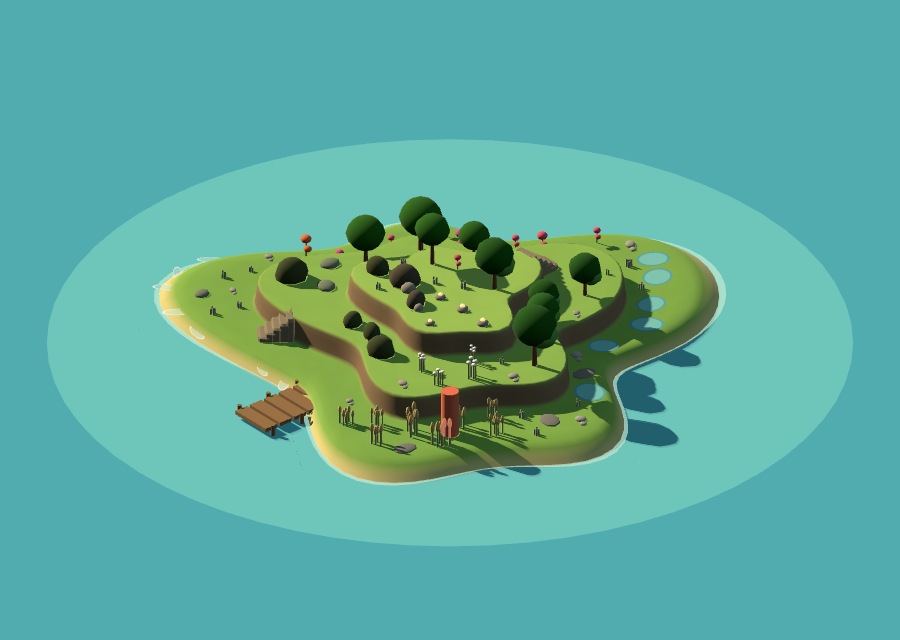
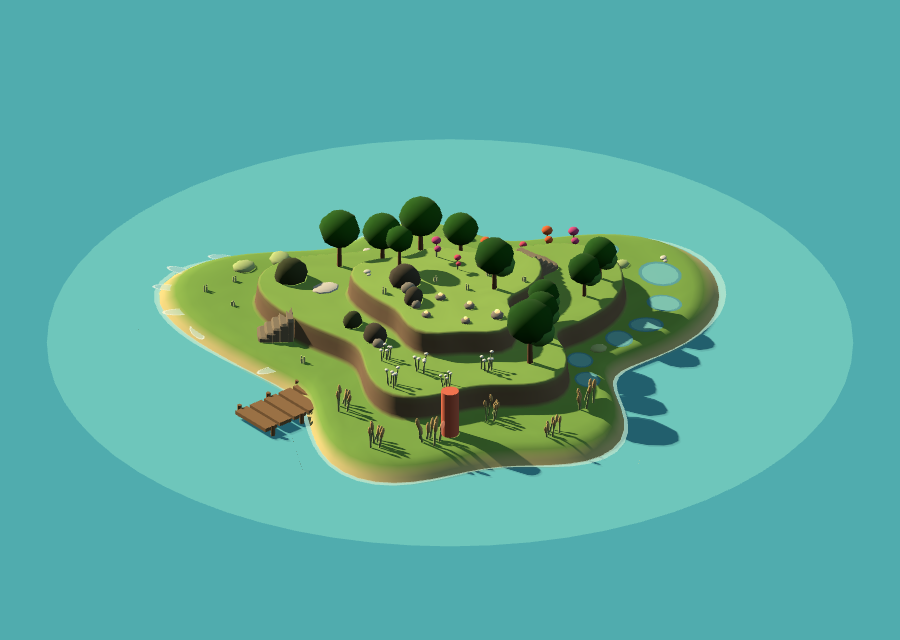
③-7 손보기: 중립 색·밀도, 갈대 뭉침
렌더 보고 세 가지.

중립 식생이 어두운 얼룩으로 보였다

채도만 낮추고 명도를 안 봤다. 잔디보다 어두우니 풀밭의 결이 아니라
때처럼 읽혔다. 명도를 잔디(grassHigh, 약 177) 위로 올리고 노란기를
줬다. 자갈·노두도 검은 돌에서 회백색으로.

구분 검사를 채도에서 크기·형태로 바꿨다. 중립을 밝게 만들면서 채도가
같이 올랐고, 애초에 어두워서 문제였지 채도 탓이 아니었다.
이제 중립은 높이 0.22 이하 + 발자국 0.30 이하, 감정 식생은 그 둘을
동시에 만족하지 않는다(등불만 발광 예외). 물웅덩이·파도는 발자국이
커서 예외 없이 통과한다. "잔디보다 밝은가"도 검사에 넣었다.

밀도 25% 감소

면적당 2.4 → 1.8. 빈 데가 거의 없어 숨 쉴 자리가 없었다.

갈대가 병정처럼 섰다

가늘고 세로로 긴 종류는 최소 간격을 따로 준다 (갈대 1.05, 흰 들꽃 0.85).
무리 안에서도 키·퍼짐·기울기를 개체마다 달리했다. 줄기를 밑동 기준으로
눕힐 수 있게 add()에 기울기를 받고, 이삭은 눕힌 끝에 얹는다.

측정

- 시드 6개 자동 검사 전부 통과
- 어휘 16가지 배치율 80~91% (간격을 넓혔으니 내려갔다). 영역별 개수는
  11~16으로 오히려 더 고르다
- 조명은 통과하되 빈 섬 대비가 27.1 → 26.1%p로 더 내려갔다.
  중립을 밝게 하면 그늘이 줄어드니 당연한 방향이다. 목표 25에 1.1%p 남았다.
  ③-8 랜드마크가 서면 세로 요소가 생기니 그때 다시 본다

Claude-Session: https://claude.ai/code/session_01SZRMdQ646wNhwreMZVVGCv

diff --git a/index.html b/index.html
@@ -5351,6 +5351,8 @@ var VEG_FOOT = {
   tuft: 0.14, pebble: 0.12, shrub: 0.24, outcrop: 0.30
 };
 var VEG_NEUTRAL = { tuft: 1, pebble: 1, shrub: 1, outcrop: 1 };
+// 가늘고 세로로 긴 것은 서로 더 떨어뜨린다. 가까이 모이면 병정처럼 줄지어 선다.
+var VEG_GAP = { reed: 1.05, wflower: 0.85 };
 var VEGCOL = {
   flowerA: 0xef8fa8, flowerB: 0xf3c05a, flowerC: 0xd98cd0,
   fruitLeaf: 0x6ea444, fruit: 0xe0603f,
@@ -5363,9 +5365,10 @@ var VEGCOL = {
   rock: 0x8a8578, rockMoss: 0x6f8455,
   wave: 0xbfe2e6, waveRim: 0xe4f2f4, pondRim: 0x4f9aa8,
   // 중립 식생. 전부 채도 0.22 이하라 자란 것과 섞이지 않는다.
-  // 노두는 분노의 바위와 회색이 겹치지 않게 더 어둡고 차갑게 간다.
-  // 크기로도 갈리지만(바위 0.31~0.5 대 노두 0.07) 색까지 벌려두는 편이 안전하다.
-  tuft: 0x8a9678, shrub: 0x707d66, pebble: 0x9c9890, outcrop: 0x74736e
+  // 중립 식생. 채도만 낮추고 명도를 안 봐서 잔디보다 어두웠고, 그래서
+  // 풀밭의 결이 아니라 때 얼룩처럼 보였다. 잔디(grassHigh, 명도 약 177)보다
+  // 밝은 쪽으로 올리고 노란기를 준다. 자갈·노두도 검은 돌이 아니라 회백색이다.
+  tuft: 0xc3d18a, shrub: 0xaec37e, pebble: 0xd8d5c8, outcrop: 0xcfcbbd
 };
 // 섬 표면 높이. 식생을 지면에 붙이려면 필요하다.
 function surfaceY(isle, x, z) {
@@ -5437,33 +5440,35 @@ function buildVegetation(isle, state, opts) {
   var list = state || [], TAU = 6.283185307;
   var items = [];
 
-  function fits(x, z, foot) {
+  function fits(x, z, foot, kind) {
     if (keepOutHit(isle, x, z) > 0) return false;
+    var own = VEG_GAP[kind] || 0;
     for (var i = 0; i < items.length; i++) {
-      var need = Math.max(VEG_MIN_GAP, foot + items[i].foot);
+      var need = Math.max(VEG_MIN_GAP, foot + items[i].foot, own, VEG_GAP[items[i].kind] || 0);
       if (Math.hypot(x - items[i].x, z - items[i].z) < need) return false;
     }
     return true;
   }
   // lv층 평지 안에서 자리를 찾는다. 층 가장자리에서 발자국만큼 물러나므로
   // 잎이나 원판이 허공으로 걸치지 않는다.
-  function spotOnTier(rnd, ang, lv, foot) {
-    for (var t = 0; t < 24; t++) {
+  function spotOnTier(rnd, ang, lv, foot, kind) {
+    // 갈대처럼 넓게 떨어뜨리는 종류가 있어 시도를 넉넉히 준다.
+    for (var t = 0; t < 40; t++) {
       // 자리가 없으면 각도를 점점 넓게 벌린다. 제 방위는 지키되 붙어 있지는 않게.
-      var a = ang + (rnd() - 0.5) * (0.5 + 1.2 * (t / 24));
+      var a = ang + (rnd() - 0.5) * (0.5 + 1.2 * (t / 40));
       var bd = tierBand(isle, a, lv);
       if (!bd) continue;
       var lo = bd.lo + foot + 0.08, hi = bd.hi - foot - 0.08;
       if (hi <= lo) continue;
       var r = lo + rnd() * (hi - lo);
       var x = Math.cos(a) * r, z = Math.sin(a) * r;
-      if (fits(x, z, foot)) return { x: x, z: z };
+      if (fits(x, z, foot, kind)) return { x: x, z: z };
     }
     return null;
   }
   // 파도는 물가에만 둔다. 잔디 위에 흰 원판이 떠 있으면 그게 뭔지 알 수 없다.
   // 수면 바로 위 띠를 실제 지면 높이로 찾는다.
-  function spotOnShore(rnd, ang, foot) {
+  function spotOnShore(rnd, ang, foot, kind) {
     for (var t = 0; t < 12; t++) {
       var a = ang + (rnd() - 0.5) * 1.1, C = isle.userData.coast(a);
       var lo = -1, hi = -1;
@@ -5474,7 +5479,7 @@ function buildVegetation(isle, state, opts) {
       if (lo < 0) continue;
       var rr = lo + rnd() * Math.max(0, hi - lo);
       var x = Math.cos(a) * rr, z = Math.sin(a) * rr;
-      if (fits(x, z, foot)) return { x: x, z: z };
+      if (fits(x, z, foot, kind)) return { x: x, z: z };
     }
     return null;
   }
@@ -5505,7 +5510,7 @@ function buildVegetation(isle, state, opts) {
         var kinds = rule.tiers[lv];
         var kind = kinds[i % kinds.length];
         var foot = (VEG_FOOT[kind] || 0.2) * sc;
-        var sp = kind === "wave" ? spotOnShore(rnd, psi, foot) : spotOnTier(rnd, psi, lv, foot);
+        var sp = kind === "wave" ? spotOnShore(rnd, psi, foot, kind) : spotOnTier(rnd, psi, lv, foot, kind);
         if (sp) { push(kind, sp, sc, rnd, lv, em.q, em.label); placed = true; }
       }
       if (!placed) { rnd(); rnd(); rnd(); }   // 못 놓아도 난수 소비를 맞춘다
@@ -5514,13 +5519,14 @@ function buildVegetation(isle, state, opts) {
 
   // 중립 식생. 섬 면적에 비례해 깐다. 층 면적이 다르므로 층별 비중도 면적에 맞춘다.
   var brnd = mulberry32(hashSeed("neutral-" + (opts.seed || "island")));
-  var want = Math.round(ISLE_R * ISLE_R * 2.4);
+  // 빈 데가 거의 없으면 숨 쉴 자리가 없다. 2.4에서 1.8로 낮췄다.
+  var want = Math.round(ISLE_R * ISLE_R * 1.8);
   for (var b = 0; b < want; b++) {
     var kind2 = NEU_KINDS[Math.floor(brnd() * NEU_KINDS.length)];
     var sc2 = 0.85 + brnd() * 0.6;
     var u = brnd();
     var lv2 = u < 0.49 ? 0 : u < 0.85 ? 1 : 2;
-    var sp2 = spotOnTier(brnd, brnd() * TAU, lv2, (VEG_FOOT[kind2] || 0.2) * sc2);
+    var sp2 = spotOnTier(brnd, brnd() * TAU, lv2, (VEG_FOOT[kind2] || 0.2) * sc2, kind2);
     if (sp2) push(kind2, sp2, sc2, brnd, lv2, null, null);
     else { brnd(); brnd(); brnd(); }
   }
@@ -5573,11 +5579,18 @@ function buildVegMeshes(items) {
   };
   var v3 = new THREE.Vector3(), q = new THREE.Quaternion(), sv = new THREE.Vector3();
   var eu = new THREE.Euler();
-  function add(part, x, y, z, sx, sy, sz, rot, col) {
-    eu.set(0, rot, 0); q.setFromEuler(eu);
+  // tx·tz는 기울기(라디안). 지오메트리 밑동이 y=0이라 밑동을 축으로 눕는다.
+  function add(part, x, y, z, sx, sy, sz, rot, col, tx, tz) {
+    eu.set(tx || 0, rot, tz || 0); q.setFromEuler(eu);
     v3.set(x, y, z); sv.set(sx, sy, sz);
     var m = new THREE.Matrix4().compose(v3, q, sv);
     parts[part].list.push({ m: m, c: col });
+  }
+  // 그 기울기로 세운 높이 h짜리 줄기의 끝 위치. 이삭을 끝에 얹을 때 쓴다.
+  var tipE = new THREE.Euler(), tipQ = new THREE.Quaternion(), tipV = new THREE.Vector3();
+  function tipOf(h, rot, tx, tz) {
+    tipE.set(tx || 0, rot, tz || 0); tipQ.setFromEuler(tipE);
+    return tipV.set(0, h, 0).applyQuaternion(tipQ).clone();
   }
   items.forEach(function (it) {
     var s = it.s, y = it.y, c = it.col;
@@ -5604,13 +5617,20 @@ function buildVegMeshes(items) {
       add("pondRim", it.x, y + 0.025, it.z, 0.44 * s, 1, 0.36 * s, it.rot, null);
     } else if (it.kind === "reed") {
       // 막대 몇 개면 앙상해 보인다. 무리를 늘리고 끝에 이삭을 단다.
-      for (var k = 0; k < 6; k++) {
-        var ka = it.rot + k * 1.05;
-        var ox = Math.cos(ka) * (0.05 + 0.055 * (k % 3)) * s;
-        var oz = Math.sin(ka) * (0.05 + 0.055 * (k % 3)) * s;
-        var rh = (0.32 + 0.13 * ((k * 7 % 5) / 5)) * it.sy;
-        add("stem", it.x + ox, y, it.z + oz, s * 0.9, rh, s * 0.9, ka, null);
-        add("reedTop", it.x + ox, y + rh, it.z + oz, 0.042 * s, 0.115 * s, 0.042 * s, 0, null);
+      // 다만 같은 키로 곧게 세우면 병정처럼 줄지어 선다.
+      // 개체마다 키·퍼짐·기울기를 크게 달리한다.
+      var rn = 6 + Math.floor(c * 3);
+      for (var k = 0; k < rn; k++) {
+        var ka = it.rot + k * 2.399;                       // 황금각. 겹치지 않게 흩어진다
+        var rr2 = (0.05 + 0.21 * ((k * 5 % 7) / 7)) * s;   // 퍼짐을 넓게
+        var ox = Math.cos(ka) * rr2, oz = Math.sin(ka) * rr2;
+        var rh = (0.26 + 0.30 * ((k * 7 % 5) / 5)) * it.sy;
+        var tl = 0.10 + 0.22 * ((k * 3 % 4) / 4);          // 바깥쪽일수록 더 눕는다
+        var tx2 = Math.sin(ka) * tl, tz2 = -Math.cos(ka) * tl;
+        add("stem", it.x + ox, y, it.z + oz, s * 0.9, rh, s * 0.9, ka, null, tx2, tz2);
+        var tp = tipOf(rh, ka, tx2, tz2);
+        add("reedTop", it.x + ox + tp.x, y + tp.y, it.z + oz + tp.z,
+            0.042 * s, 0.115 * s, 0.042 * s, 0, null, tx2, tz2);
       }
     } else if (it.kind === "lamp") {
       // 기둥 위 가로등처럼 서 있으면 대낮에 어색하다.
@@ -5620,13 +5640,17 @@ function buildVegMeshes(items) {
     } else if (it.kind === "wflower") {
       // 흰 들꽃 무리. 차분하지만 예뻐야 한다(§5 절대 원칙).
       for (var w = 0; w < 5; w++) {
-        var wa = it.rot + w * 1.257;
-        var wx = it.x + Math.cos(wa) * (0.045 + 0.05 * (w % 2)) * s;
-        var wz = it.z + Math.sin(wa) * (0.045 + 0.05 * (w % 2)) * s;
+        var wa = it.rot + w * 2.399;
+        var wr = (0.045 + 0.13 * ((w * 3 % 5) / 5)) * s;
+        var wx = it.x + Math.cos(wa) * wr, wz = it.z + Math.sin(wa) * wr;
         // 흰 들꽃은 색이 거의 없으므로 키로 구분한다. 0.14 → 0.30.
-        var wh = (0.30 + 0.06 * (w % 3)) * it.sy;
-        add("stem", wx, y, wz, s * 0.75, wh, s * 0.75, wa, null);
-        add("wpetal", wx, y + wh + 0.018 * s, wz, 0.048 * s, 0.032 * s, 0.048 * s, 0, null);
+        var wh = (0.28 + 0.16 * ((w * 7 % 4) / 4)) * it.sy;
+        var wt = 0.08 + 0.18 * ((w % 3) / 3);
+        var wtx = Math.sin(wa) * wt, wtz = -Math.cos(wa) * wt;
+        add("stem", wx, y, wz, s * 0.75, wh, s * 0.75, wa, null, wtx, wtz);
+        var wp = tipOf(wh, wa, wtx, wtz);
+        add("wpetal", wx + wp.x, y + wp.y + 0.018 * s, wz + wp.z,
+            0.048 * s, 0.032 * s, 0.048 * s, 0, null);
       }
     } else if (it.kind === "rock") {
       // 낮은 자갈만 하면 중립 식생과 구분이 안 된다(채도도 낮은 종류라 더 그렇다).
